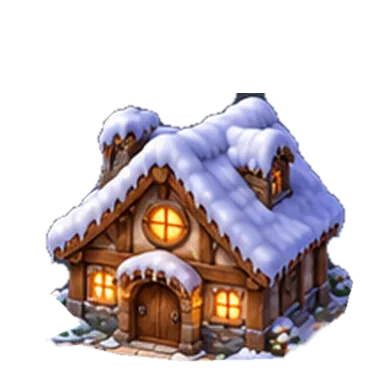
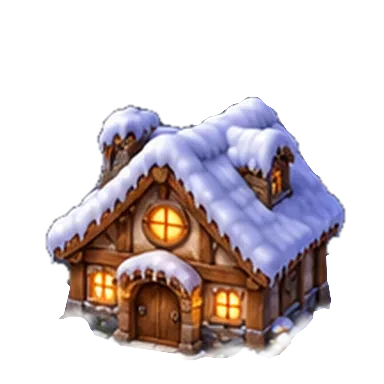
assets(exploration): replace six snowy house sprites with author's clean WebPs

diff --git a/docs/LAB_CURRENT_WORK.md b/docs/LAB_CURRENT_WORK.md
@@ -1,3 +1,9 @@
+## 2026-11-15 — Remplacement fidèle des 7 bâtiments nettoyés par l'auteur
+- START `main@f09038257e529b2756d2a343bd89a0cb61b62c87`, branche `work/exploration-user-clean-house-webp-20261115`, périmètre exclusivement images canoniques enneigées et leurs index. Validation explicite auteur : remplacer les modèles déjà nommés, sans redessiner, détourer à nouveau, créer un assetId ou modifier le moteur.
+- 7 WebP fournis, **6 remplacements stricts des octets utilisateur** et 1 fichier `building_house_snow_alpine_timber_2p5d_side_01.webp` **déjà strictement identique**, conservé sans changement. Toutes les vues 384×384 RGBA avec transparence contrôlées. Conformité des blobs Git à la signature SHA-1 de chaque image vérifiée lors de l'import et des SHA-256 inscrits dans le catalogue.
+- Source unique maintenue : `assets/exploration/objects/buildings`, 30 vues et 10 modèles inchangés; `manifest.snow-houses.v1.json` et `SHA256SUMS.snow-houses-v1.txt` actualisés sans modifier les 24 autres fichiers. Sous-lot : 577562 → 132070 octets (-445492 octets). Aucun collage, réencodage, détour supplémentaire ou double bibliothèque.
+- Pas de changement collision, chargement, WorldDocument, Portals, V80, Capture, Dungeon, Combat, ombres ou publication inter-dépôts. Gates : CI Node et Chromium, publication Pages du commit exact sur `main`, contrôle HTTPS, vérification visuelle PC/Pixel par l'auteur avant statut artistique GREEN.
+
 ## 2026-11-15 — Révision de contrôle du détourage (14 vues conservées après inspection)
 - Précision de synchronisation : les 6 vues rondes non retouchées par ce lot suivent les WebP canoniques déjà publiés sur `main` ; les empreintes/taille ont été réalignées sur ces pixels existants (aucune réédition ou copie).
 - **Le traitement intermédiaire de 20 vues ci-dessous a été invalidé visuellement** : des pixels isolés / trous apparaissaient près des façades et lanternes des pagodes. Il ne doit PAS être présenté comme version finale, même si son audit SHA était vert.
